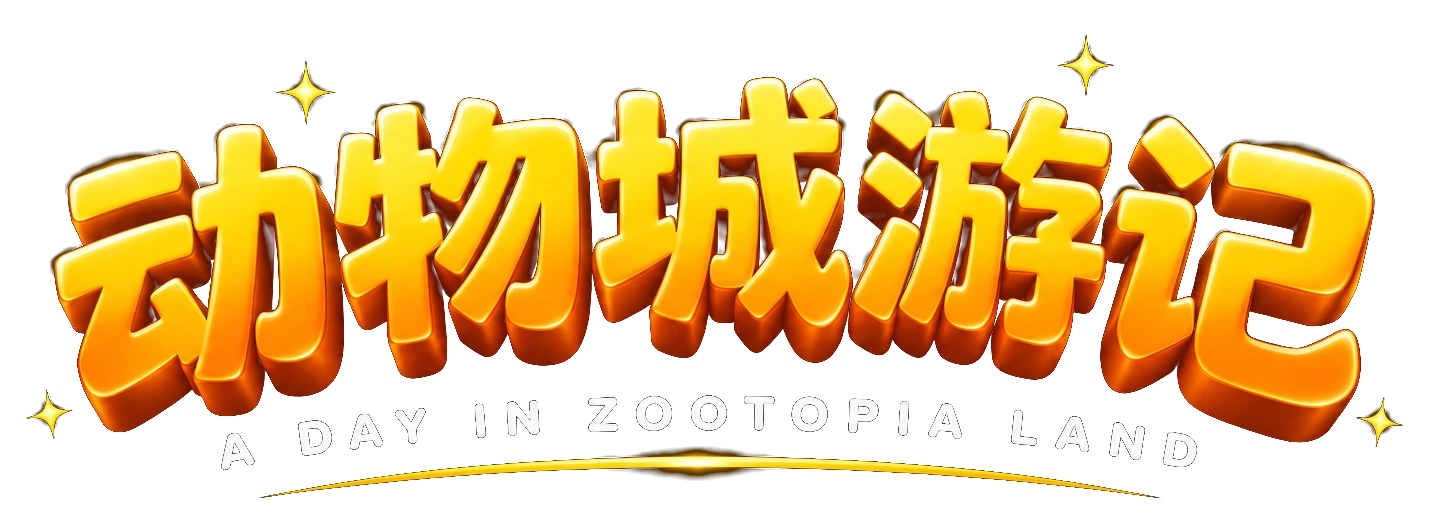
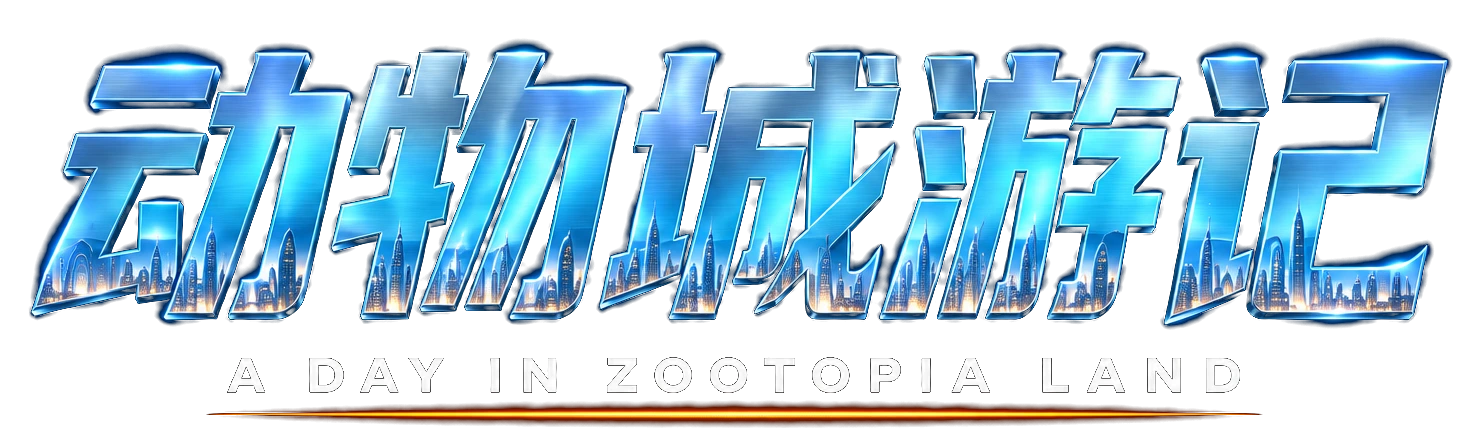
界面和地图改成动物城风格
- 片名字换成铬蓝金属字；地点提示做成蓝底白字的路牌
- 按钮、按键说明用深蓝玻璃 + 铬蓝描边，强调色是胡萝卜橙
- 小地图画成城市导览图：深蓝底、亮色街区、白色马路加黄色中线

diff --git a/index.html b/index.html
@@ -5,58 +5,65 @@
 <meta name="viewport" content="width=device-width, initial-scale=1">
 <title>动物城游记 · 疯狂动物城园区虚拟游览</title>
 <style>
-  /* 界面走「旅行手帐」的样子：米色行李牌、青绿描边、橙色点睛，和游记视频里的字幕牌是同一套 */
-  :root { --cream:#f7ead0; --cream-2:#efdcb4; --teal:#1f6f6b; --ink:#23474a; --orange:#ff9d2e; --shadow:0 8px 22px rgba(10,20,30,.28); }
+  /* 界面取动物城自己的视觉：深蓝玻璃 + 铬蓝描边（片名那种金属蓝）、蓝底白字的路牌（园区里「大马路」路牌的样子）、
+     胡萝卜橙做强调色、霓虹洋红只在夜里的小点缀上用 */
+  :root { --navy:#0b1a3c; --navy-2:#13306b; --blue:#1f6fe0; --blue-2:#1554bd; --cyan:#35c9f2; --yellow:#ffd23a; --carrot:#ff7a1a; --carrot-2:#ffa23d; --neon:#ff4fb0;
+    --glass:rgba(11,26,60,.78); --shadow:0 10px 26px rgba(4,10,28,.45); }
   * { box-sizing:border-box; }
-  html,body { margin:0; height:100%; overflow:hidden; background:#0b0e1a; color:var(--ink);
+  html,body { margin:0; height:100%; overflow:hidden; background:#070d1f; color:#fff;
     font-family:"Microsoft YaHei UI","PingFang SC","Noto Sans SC",system-ui,sans-serif; }
   canvas#view { position:fixed; inset:0; width:100%; height:100%; display:block; }
 
   /* —— 游览时的界面 —— */
   .hud { position:fixed; pointer-events:none; user-select:none; transition:opacity .45s; }
   body:not(.started) .hud, body.hideui .hud { opacity:0 !important; pointer-events:none !important; }
-  .tag { background:linear-gradient(180deg,var(--cream),var(--cream-2)); color:var(--ink); border-radius:14px;
-    box-shadow:inset 0 0 0 3px var(--cream), inset 0 0 0 4.5px rgba(31,111,107,.55), var(--shadow); }
-  #title { left:20px; top:14px; }
-  #title img { display:block; height:58px; filter:drop-shadow(0 3px 8px rgba(0,0,0,.45)); }
-  #poi { left:50%; top:18px; transform:translate(-50%,-8px); padding:10px 30px 10px 38px; text-align:center; white-space:nowrap; opacity:0; transition:opacity .4s, transform .4s; }
+  .card { background:linear-gradient(180deg, rgba(19,48,107,.86), var(--glass)); border-radius:14px; backdrop-filter:blur(10px); -webkit-backdrop-filter:blur(10px);
+    box-shadow:inset 0 0 0 1.5px rgba(53,201,242,.55), inset 0 1.5px 0 rgba(255,255,255,.28), var(--shadow); }
+  #title { left:20px; top:12px; }
+  #title img { display:block; height:62px; filter:drop-shadow(0 3px 10px rgba(0,10,40,.6)); }
+  /* 地点提示：一块蓝底白字的路牌 */
+  #poi { left:50%; top:16px; transform:translate(-50%,-10px); padding:9px 26px 10px; text-align:center; white-space:nowrap; opacity:0; transition:opacity .4s, transform .4s;
+    border-radius:10px; background:linear-gradient(180deg,#2f86f5,var(--blue-2)); box-shadow:inset 0 0 0 2.5px #fff, inset 0 0 0 4px rgba(21,84,189,.9), var(--shadow); }
   #poi.on { opacity:1; transform:translate(-50%,0); }
-  #poi::before { content:""; position:absolute; left:14px; top:50%; width:9px; height:9px; margin-top:-4.5px; border-radius:50%; background:#3b2f24; box-shadow:0 0 0 2px rgba(31,111,107,.5); }   /* 行李牌的穿绳孔 */
-  #poi b { display:block; font-size:17px; letter-spacing:.06em; }
-  #poi small { display:block; margin-top:1px; font-size:10.5px; letter-spacing:.16em; color:var(--teal); text-transform:uppercase; }
+  #poi b { display:block; font-size:18px; letter-spacing:.08em; text-shadow:0 1px 0 rgba(0,0,0,.25); }
+  #poi small { display:block; margin-top:1px; font-size:10.5px; font-weight:700; letter-spacing:.18em; text-transform:uppercase; opacity:.92; }
   #bar { right:20px; top:16px; display:flex; gap:8px; pointer-events:auto; }
-  #bar button { all:unset; cursor:pointer; padding:9px 15px; font-size:13px; font-weight:600; color:var(--ink); border-radius:999px;
-    background:linear-gradient(180deg,var(--cream),var(--cream-2)); box-shadow:inset 0 0 0 1.5px rgba(31,111,107,.55), var(--shadow); transition:transform .12s, filter .15s; }
-  #bar button:hover { filter:brightness(1.06); transform:translateY(-1px); }
+  #bar button { all:unset; cursor:pointer; padding:9px 16px; font-size:13px; font-weight:700; letter-spacing:.04em; color:#fff; border-radius:999px;
+    background:linear-gradient(180deg, rgba(31,111,224,.92), rgba(15,60,150,.92)); box-shadow:inset 0 0 0 1.5px rgba(140,220,255,.7), inset 0 1.5px 0 rgba(255,255,255,.4), var(--shadow); transition:transform .12s, filter .15s; }
+  #bar button:hover { filter:brightness(1.12); transform:translateY(-1px); }
   #bar button:active { transform:scale(.97); }
-  #bar button.on { background:linear-gradient(180deg,#ffb655,var(--orange)); color:#3a2408; box-shadow:inset 0 0 0 1.5px rgba(120,60,0,.35), var(--shadow); }
-  #help { left:20px; bottom:18px; padding:12px 18px; font-size:12px; line-height:1.9; }
+  #bar button.on { background:linear-gradient(180deg,var(--carrot-2),var(--carrot)); box-shadow:inset 0 0 0 1.5px rgba(255,230,180,.85), inset 0 1.5px 0 rgba(255,255,255,.5), 0 0 18px rgba(255,122,26,.55), var(--shadow); }
+  #help { left:20px; bottom:18px; padding:12px 18px 12px 22px; font-size:12px; line-height:1.95; overflow:hidden; }
+  #help::before { content:""; position:absolute; left:0; top:0; bottom:0; width:6px; background:linear-gradient(180deg,var(--yellow),var(--carrot)); }   /* 警徽黄的侧条 */
   body.quiet #help { opacity:0; }
-  kbd { display:inline-block; min-width:21px; text-align:center; padding:0 6px; margin:0 1px; border-radius:6px; font:600 11px ui-monospace,Consolas,monospace;
-    color:var(--cream); background:var(--teal); box-shadow:0 2px 0 rgba(0,0,0,.25); }
-  #fps { margin-left:6px; color:var(--teal); font-variant-numeric:tabular-nums; }
-  #map { right:20px; bottom:18px; width:236px; height:196px; padding:6px; overflow:hidden; pointer-events:auto; cursor:pointer; }
-  #map canvas { width:100%; height:100%; display:block; border-radius:9px; }
-  #cross { left:50%; top:50%; width:6px; height:6px; margin:-3px 0 0 -3px; border-radius:50%; background:rgba(255,255,255,.8); box-shadow:0 0 0 1px rgba(0,0,0,.35); opacity:0; }
+  kbd { display:inline-block; min-width:21px; text-align:center; padding:0 6px; margin:0 1px; border-radius:6px; font:700 11px ui-monospace,Consolas,monospace;
+    color:var(--navy); background:linear-gradient(180deg,#fff,#cfe6ff); box-shadow:0 2px 0 rgba(0,0,0,.35); }
+  #fps { margin-left:8px; color:var(--cyan); font-variant-numeric:tabular-nums; }
+  #map { right:20px; bottom:18px; width:240px; height:222px; padding:26px 6px 6px; overflow:hidden; pointer-events:auto; cursor:pointer; }
+  #map::before { content:"动物城地图 · ZOOTOPIA MAP"; position:absolute; left:0; right:0; top:0; height:22px; line-height:22px; text-align:center; font-size:10.5px; font-weight:700; letter-spacing:.14em;
+    background:linear-gradient(180deg,#2f86f5,var(--blue-2)); box-shadow:inset 0 -1.5px 0 rgba(255,255,255,.35); }
+  #map canvas { width:100%; height:100%; display:block; border-radius:8px; }
+  #cross { left:50%; top:50%; width:6px; height:6px; margin:-3px 0 0 -3px; border-radius:50%; background:rgba(255,255,255,.85); box-shadow:0 0 0 1px rgba(0,0,0,.35); opacity:0; }
   body.walking #cross { opacity:1; }
 
   /* —— 开始界面：后面是实景慢镜头，上下各一条电影黑边 —— */
-  #start { position:fixed; inset:0; z-index:10; display:flex; flex-direction:column; align-items:center; justify-content:center; gap:16px; text-align:center; color:#fff;
-    background:#0b0e1a; transition:opacity .7s, background 1.2s; }
-  body.ready #start { background:linear-gradient(180deg, rgba(8,12,28,.42) 0%, rgba(8,12,28,.06) 34%, rgba(8,12,28,.18) 58%, rgba(8,12,28,.80) 100%); }
-  #start::before, #start::after { content:""; position:absolute; left:0; right:0; height:6.5vh; background:#05070d; }
+  #start { position:fixed; inset:0; z-index:10; display:flex; flex-direction:column; align-items:center; justify-content:center; gap:16px; text-align:center;
+    background:#070d1f; transition:opacity .7s, background 1.2s; }
+  body.ready #start { background:linear-gradient(180deg, rgba(7,16,44,.5) 0%, rgba(7,16,44,.08) 34%, rgba(7,16,44,.2) 58%, rgba(7,16,44,.84) 100%); }
+  #start::before, #start::after { content:""; position:absolute; left:0; right:0; height:6.5vh; background:#04070f; }
   #start::before { top:0; } #start::after { bottom:0; }
-  #start .logo { width:min(720px,76vw); margin-top:-4vh; filter:drop-shadow(0 10px 26px rgba(0,0,0,.55)); animation:float 6s ease-in-out infinite; }
+  #start .logo { width:min(760px,78vw); margin-top:-4vh; filter:drop-shadow(0 10px 30px rgba(0,20,70,.7)); animation:float 6s ease-in-out infinite; }
   @keyframes float { 0%,100% { transform:translateY(0); } 50% { transform:translateY(-7px); } }
-  #start .sub { margin:0; font-size:15px; letter-spacing:.34em; text-indent:.34em; text-shadow:0 2px 10px rgba(0,0,0,.7); opacity:.95; }
-  #start .go { all:unset; cursor:pointer; position:relative; overflow:hidden; margin-top:10px; min-width:230px; padding:15px 40px; border-radius:999px; font-weight:700; font-size:17px; letter-spacing:.22em; text-indent:.22em;
-    color:#3a2408; background:linear-gradient(180deg,#ffc56a,var(--orange)); box-shadow:0 10px 26px rgba(255,140,30,.38), inset 0 0 0 2px rgba(255,255,255,.35); transition:transform .15s, filter .15s; }
-  #start .go:hover:not([disabled]) { transform:translateY(-2px) scale(1.02); filter:brightness(1.05); }
-  #start .go[disabled] { cursor:progress; color:#e9eef5; background:rgba(255,255,255,.14); box-shadow:inset 0 0 0 1.5px rgba(255,255,255,.3); }
-  #start .go i { position:absolute; left:0; top:0; bottom:0; width:0; background:rgba(255,180,70,.55); transition:width .25s; z-index:-1; }   /* 加载进度就填在按钮里 */
+  #start .sub { margin:0; padding:5px 18px; font-size:14px; font-weight:700; letter-spacing:.3em; text-indent:.3em; border-radius:8px;
+    background:linear-gradient(180deg,#2f86f5,var(--blue-2)); box-shadow:inset 0 0 0 2px #fff, 0 6px 18px rgba(0,10,40,.5); }
+  #start .go { all:unset; cursor:pointer; position:relative; overflow:hidden; margin-top:12px; min-width:240px; padding:15px 42px; border-radius:999px; font-weight:800; font-size:18px; letter-spacing:.24em; text-indent:.24em; color:#fff;
+    text-shadow:0 1px 0 rgba(120,50,0,.5); background:linear-gradient(180deg,var(--carrot-2),var(--carrot)); box-shadow:0 0 28px rgba(255,122,26,.55), inset 0 0 0 2px rgba(255,235,200,.8), inset 0 2px 0 rgba(255,255,255,.55); transition:transform .15s, filter .15s; }
+  #start .go:hover:not([disabled]) { transform:translateY(-2px) scale(1.02); filter:brightness(1.07); }
+  #start .go[disabled] { cursor:progress; text-shadow:none; background:rgba(11,26,60,.7); box-shadow:inset 0 0 0 1.5px rgba(53,201,242,.6); }
+  #start .go i { position:absolute; left:0; top:0; bottom:0; width:0; background:linear-gradient(90deg, rgba(31,111,224,.9), rgba(53,201,242,.9)); transition:width .25s; z-index:-1; }   /* 加载进度填在按钮里 */
   #start .go:not([disabled]) i { display:none; }
-  #start .keys { display:flex; flex-wrap:wrap; justify-content:center; gap:6px 18px; max-width:760px; font-size:12.5px; text-shadow:0 1px 6px rgba(0,0,0,.8); opacity:.92; }
-  #start .foot { position:absolute; left:0; right:0; bottom:calc(6.5vh + 12px); padding:0 24px; font-size:11px; line-height:1.7; opacity:.72; text-shadow:0 1px 6px rgba(0,0,0,.8); }
+  #start .keys { display:flex; flex-wrap:wrap; justify-content:center; gap:6px 18px; max-width:760px; font-size:12.5px; text-shadow:0 1px 6px rgba(0,0,0,.85); }
+  #start .foot { position:absolute; left:0; right:0; bottom:calc(6.5vh + 12px); padding:0 24px; font-size:11px; line-height:1.7; opacity:.75; text-shadow:0 1px 6px rgba(0,0,0,.85); }
   #start .foot small { display:block; font-size:11px; }
   body.started #start { opacity:0; pointer-events:none; }
 </style>
@@ -71,18 +78,18 @@
 <canvas id="view"></canvas>
 
 <div id="title" class="hud"><img src="./assets/ui/title.webp" alt="动物城游记"></div>
-<div id="poi" class="hud tag"></div>
+<div id="poi" class="hud"></div>
 <div id="bar" class="hud">
   <button id="btnTime" title="切换白天 / 黄昏 / 夜晚 (N)">☀ 白天</button>
   <button id="btnTour" title="沿大马路自动游览 (T)">▶ 自动游览</button>
   <button id="btnView" title="俯瞰 / 步行 (O)">⛶ 俯瞰</button>
 </div>
-<div id="help" class="hud tag">
+<div id="help" class="hud card">
   <kbd>W</kbd><kbd>A</kbd><kbd>S</kbd><kbd>D</kbd> 行走　<kbd>Shift</kbd> 快走　鼠标 环视<br>
   <kbd>N</kbd> 日夜　<kbd>T</kbd> 自动游览　<kbd>O</kbd> 俯瞰　<kbd>F</kbd> 烟花　<kbd>M</kbd> 地图<br>
   <kbd>H</kbd> 隐藏界面　<kbd>R</kbd> 回到路上　<kbd>/</kbd> 显示按键<span id="fps"></span>
 </div>
-<div id="map" class="hud tag" title="点击地图瞬移"><canvas width="460" height="380"></canvas></div>
+<div id="map" class="hud card" title="点击地图瞬移"><canvas width="456" height="380"></canvas></div>
 <div id="cross" class="hud"></div>
 
 <div id="start">

diff --git a/src/ui.js b/src/ui.js
@@ -30,23 +30,32 @@ export class UI {
     if (fill) { g.fillStyle = fill; g.fill(); } if (stroke) { g.strokeStyle = stroke; g.lineWidth = 1.5; g.stroke(); }
   }
 
+  // 小地图画成动物城的城市导览图：深蓝底、亮色街区、白色马路加黄色中线
   _drawBg() {
     const g = this.bg.getContext('2d'), W = this.bg.width, H = this.bg.height;
-    g.fillStyle = '#f3e2bd'; g.fillRect(0, 0, W, H);                 // 手帐纸的底色
-    this._poly(g, PARK, '#9ccf86');
-    g.strokeStyle = '#7f8a8d'; g.lineWidth = 5.8 * this.s; g.lineCap = g.lineJoin = 'round';
-    g.beginPath(); ROAD.forEach((p, i) => (i ? g.lineTo(this.X(p[0]), this.Y(p[1])) : g.moveTo(this.X(p[0]), this.Y(p[1])))); g.stroke();
-    g.beginPath(); g.arc(this.X(CIRCLE.c[0]), this.Y(CIRCLE.c[1]), (CIRCLE.rOut + CIRCLE.rIn) / 2 * this.s, 0, 7); g.lineWidth = (CIRCLE.rOut - CIRCLE.rIn) * this.s; g.stroke();
-    const cols = { west: '#f0a9a2', central: '#bfa6e2', east: '#eaa06e', ride: '#d9c08c' };
-    for (const [k, p] of Object.entries(BLOCKS)) this._poly(g, p, cols[k], 'rgba(35,71,74,.45)');
-    g.fillStyle = '#d9a066'; g.beginPath(); g.arc(this.X(ZPD.c[0]), this.Y(ZPD.c[1]), ZPD.r * this.s, 0, 7); g.fill();
-    g.fillStyle = '#c9743f'; g.beginPath(); g.arc(this.X(ZOOTRON.c[0]), this.Y(ZOOTRON.c[1]), ZOOTRON.r * this.s, 0, 7); g.fill();
-    g.strokeStyle = 'rgba(31,111,107,.6)'; g.lineWidth = 1.5;
-    for (const w of WALLS) { g.beginPath(); w.forEach((p, i) => (i ? g.lineTo(this.X(p[0]), this.Y(p[1])) : g.moveTo(this.X(p[0]), this.Y(p[1])))); g.stroke(); }
-    g.fillStyle = '#23474a'; g.font = 'bold 15px "Microsoft YaHei",sans-serif'; g.textAlign = 'center';
-    const tags = [['警局', ZPD.c[0], ZPD.c[1] + 16], ['大屏', ZOOTRON.c[0], ZOOTRON.c[1] + 12], ['公寓群', -13, -50], ['露露', -46, -34], ['食集', 43, -52], ['入口', -52, -90]];
-    for (const [t, x, y] of tags) g.fillText(t, this.X(x), this.Y(y));
-    g.fillStyle = '#1f6f6b'; g.font = 'bold 13px sans-serif'; g.fillText('N ↑', W - 24, 20);
+    const bgG = g.createLinearGradient(0, 0, 0, H); bgG.addColorStop(0, '#12306b'); bgG.addColorStop(1, '#0b1a3c'); g.fillStyle = bgG; g.fillRect(0, 0, W, H);
+    g.strokeStyle = 'rgba(120,190,255,.10)'; g.lineWidth = 1;                      // 淡淡的方格，像导览图的坐标网
+    for (let x = 0; x < W; x += 38) { g.beginPath(); g.moveTo(x, 0); g.lineTo(x, H); g.stroke(); }
+    for (let y = 0; y < H; y += 38) { g.beginPath(); g.moveTo(0, y); g.lineTo(W, y); g.stroke(); }
+    this._poly(g, PARK, '#35c27a', 'rgba(255,255,255,.35)');
+    const cols = { ride: '#2c4f9c', west: '#ff7fb0', central: '#a988f2', east: '#ff9a3d' };
+    for (const k of ['ride', 'west', 'central', 'east']) this._poly(g, BLOCKS[k], cols[k], 'rgba(255,255,255,.55)');
+    const line = (pts) => { g.beginPath(); pts.forEach((p, i) => (i ? g.lineTo(this.X(p[0]), this.Y(p[1])) : g.moveTo(this.X(p[0]), this.Y(p[1])))); g.stroke(); };
+    g.lineCap = g.lineJoin = 'round';
+    g.strokeStyle = '#0b1a3c'; g.lineWidth = 7.4 * this.s; line(ROAD);                 // 马路：深色描边 + 白色路面 + 黄色虚线
+    g.strokeStyle = '#f2f6ff'; g.lineWidth = 5.4 * this.s; line(ROAD);
+    const rx = (CIRCLE.rOut + CIRCLE.rIn) / 2 * this.s;
+    g.lineWidth = (CIRCLE.rOut - CIRCLE.rIn) * this.s; g.beginPath(); g.ellipse(this.X(CIRCLE.c[0]), this.Y(CIRCLE.c[1]), rx * (CIRCLE.sx || 1), rx * (CIRCLE.sy || 1), 0, 0, 7); g.stroke();
+    g.fillStyle = '#35c27a'; g.beginPath(); g.ellipse(this.X(CIRCLE.c[0]), this.Y(CIRCLE.c[1]), CIRCLE.rIn * this.s * (CIRCLE.sx || 1), CIRCLE.rIn * this.s * (CIRCLE.sy || 1), 0, 0, 7); g.fill();
+    g.setLineDash([6, 7]); g.strokeStyle = '#ffd23a'; g.lineWidth = 1.6; line(ROAD); g.setLineDash([]);
+    g.strokeStyle = 'rgba(53,201,242,.75)'; g.lineWidth = 1.6; for (const w of WALLS) line(w);
+    // 警局（金色警徽）和广告塔（霓虹洋红）
+    g.fillStyle = '#ffd23a'; g.strokeStyle = '#fff'; g.lineWidth = 2; g.beginPath(); g.arc(this.X(ZPD.c[0]), this.Y(ZPD.c[1]), ZPD.r * this.s, 0, 7); g.fill(); g.stroke();
+    g.fillStyle = '#ff4fb0'; g.beginPath(); g.arc(this.X(ZOOTRON.c[0]), this.Y(ZOOTRON.c[1]), ZOOTRON.r * this.s, 0, 7); g.fill(); g.stroke();
+    g.font = 'bold 15px "Microsoft YaHei",sans-serif'; g.textAlign = 'center'; g.lineJoin = 'round';
+    const tags = [['警局', ZPD.c[0], ZPD.c[1] - 2], ['大屏', ZOOTRON.c[0], ZOOTRON.c[1] + 12], ['公寓群', -13, -50], ['露露', -46, -34], ['食集', 38, -40], ['入口', -52, -90]];
+    for (const [t, x, y] of tags) { g.strokeStyle = 'rgba(8,18,44,.85)'; g.lineWidth = 4; g.strokeText(t, this.X(x), this.Y(y)); g.fillStyle = '#fff'; g.fillText(t, this.X(x), this.Y(y)); }
+    g.fillStyle = '#35c9f2'; g.font = 'bold 13px sans-serif'; g.fillText('N ↑', W - 24, 20);
   }
 
   update() {
@@ -55,8 +64,8 @@ export class UI {
     g.drawImage(this.bg, 0, 0);
     // 游客箭头
     g.save(); g.translate(this.X(w.pos.x), this.Y(w.pos.y)); g.rotate(w.yaw);
-    g.fillStyle = 'rgba(255,140,30,.3)'; g.beginPath(); g.moveTo(0, 0); g.arc(0, 0, 42, -Math.PI / 2 - 0.55, -Math.PI / 2 + 0.55); g.fill();
-    g.fillStyle = '#ff8c1e'; g.strokeStyle = '#3a2408'; g.lineWidth = 2;
+    g.fillStyle = 'rgba(53,201,242,.28)'; g.beginPath(); g.moveTo(0, 0); g.arc(0, 0, 42, -Math.PI / 2 - 0.55, -Math.PI / 2 + 0.55); g.fill();
+    g.fillStyle = '#ff7a1a'; g.strokeStyle = '#fff'; g.lineWidth = 2.2;
     g.beginPath(); g.moveTo(0, -11); g.lineTo(7, 8); g.lineTo(0, 4); g.lineTo(-7, 8); g.closePath(); g.fill(); g.stroke();
     g.restore();
     // 景点提示
